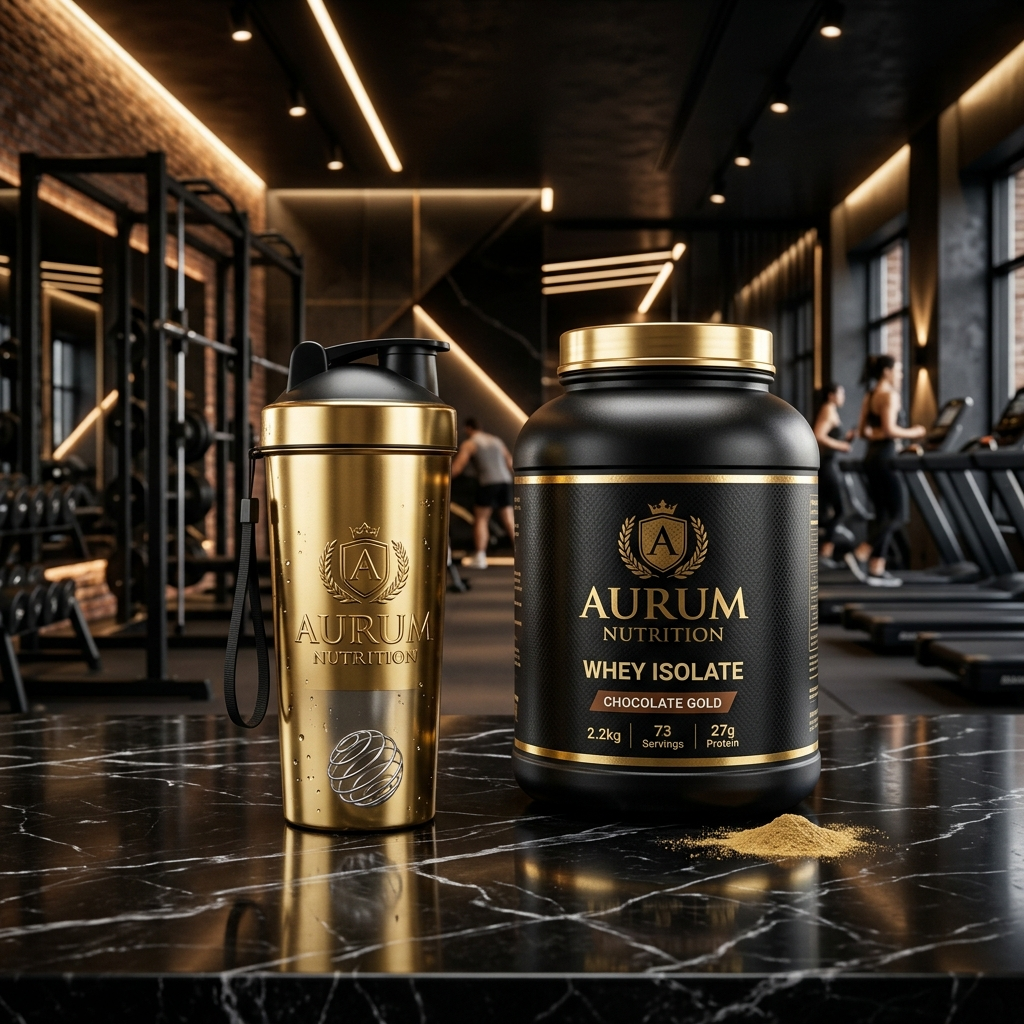
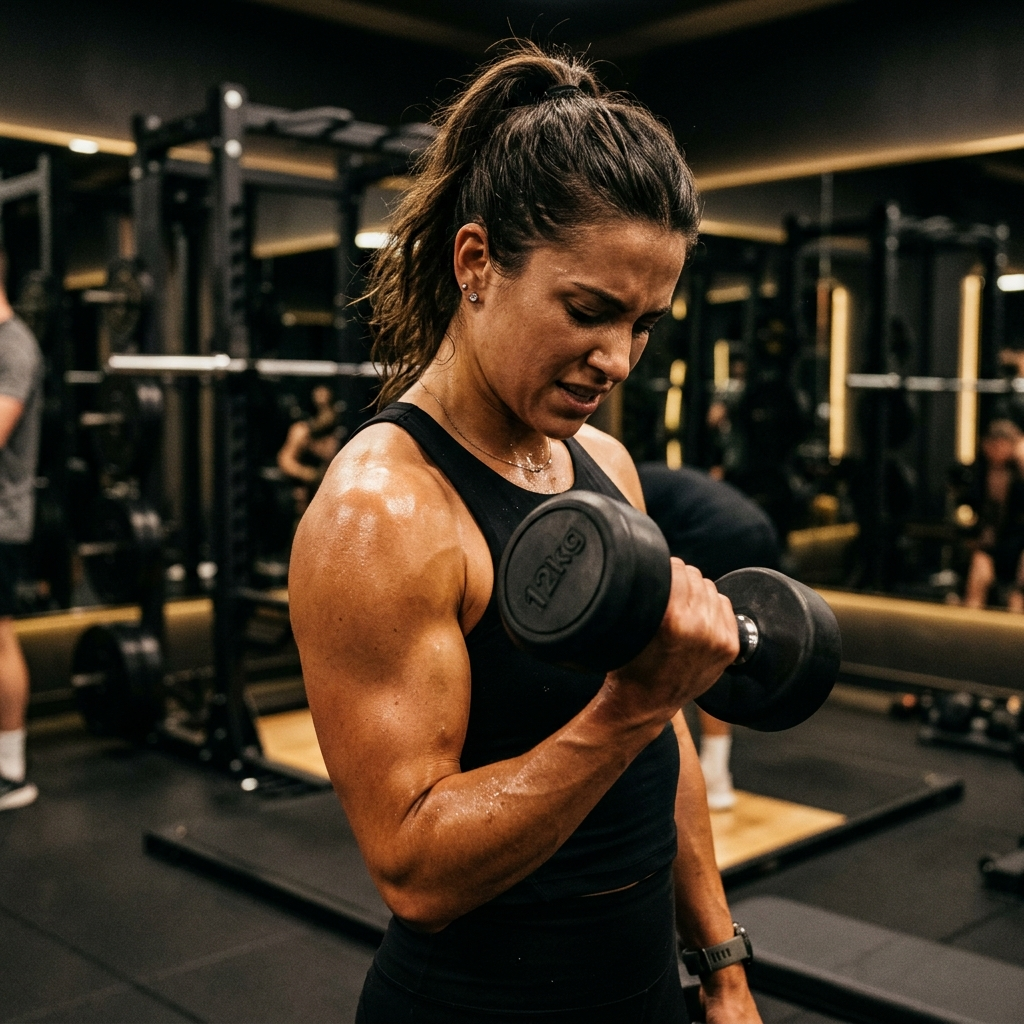
feat: update signup page hero image with new gym asset options

diff --git a/frontend/app/signup/page.tsx b/frontend/app/signup/page.tsx
@@ -100,7 +100,7 @@ function SignupContent() {
       {/* Image Portion (Left) */}
       <div className={`hidden lg:block lg:w-[52%] xl:w-[55%] h-full relative overflow-hidden transition-[transform,opacity] duration-500 ease-out-expo ${(!mounted) ? '-translate-x-8 opacity-0' : 'translate-x-0 opacity-100'}`}>
         <Image 
-          src="/images/signup-gym-protein.png" 
+          src="/images/signup-gym-athlete.png" 
           alt="Premium Nutrition" 
           fill
           priority